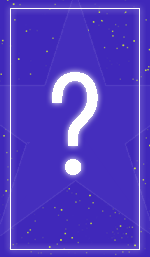
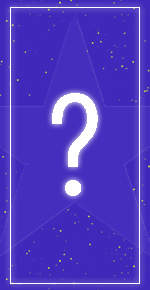
Friday 13th special

diff --git a/index.html b/index.html
@@ -1,5 +1,5 @@
 <head>
-<title>Tarot</title>
+<title>Tarot - Special friday 13th</title>
 <link rel="icon" type="image/x-icon" href="images/tarot-icon.ico">
 <meta name="viewport" content="width=device-width, initial-scale=1.0;">
 </head>
@@ -8,21 +8,16 @@
 <body>
 
 <div class="title">
-<img src="images/tarot-title.png">
+<img src="images/tarot-title13th.png">
 </div>
 
 <div class="info">
-<a>Ask something, I will help you find the answer.</a>
-<br>
-<a>Example:</a>
-<br>
-<a>How will my day go ?</a>
 <br>
 </div>
 
 <div class="page">
 <div class="moteur">
-<a onclick="getRandomImage()"><img id="randomImage" src="images/start.png"></a>
+<a onclick="getRandomImage()"><img id="randomImage" src="images/start13th.png"></a>
 <script>
 const images = [
   "rw02cups-r.jpg", "rw02cups.jpg", "rw02pentacles-r.jpg", "rw02pentacles.jpg",
@@ -78,7 +73,7 @@ document.getElementById("randomImage").src = `tarotcards/${images[randomIndex]}`
     
 <style>
 body{
-background: url('images/background.gif') #3e3437 repeat 0px 0px;
+background: url('images/background-friday13th.gif') #3e3437 repeat 0px 0px;
 }
 .title {
 text-align: center;
@@ -112,7 +107,7 @@ font-size: 51px;
 .moteur img{
 width: 150px;
 height: 300px;
-outline: solid #3f27bb 3px;   
+box-shadow: 0px 0px 15px 14px rgba(138,53,0,0.9);
 }
 </style>
     
